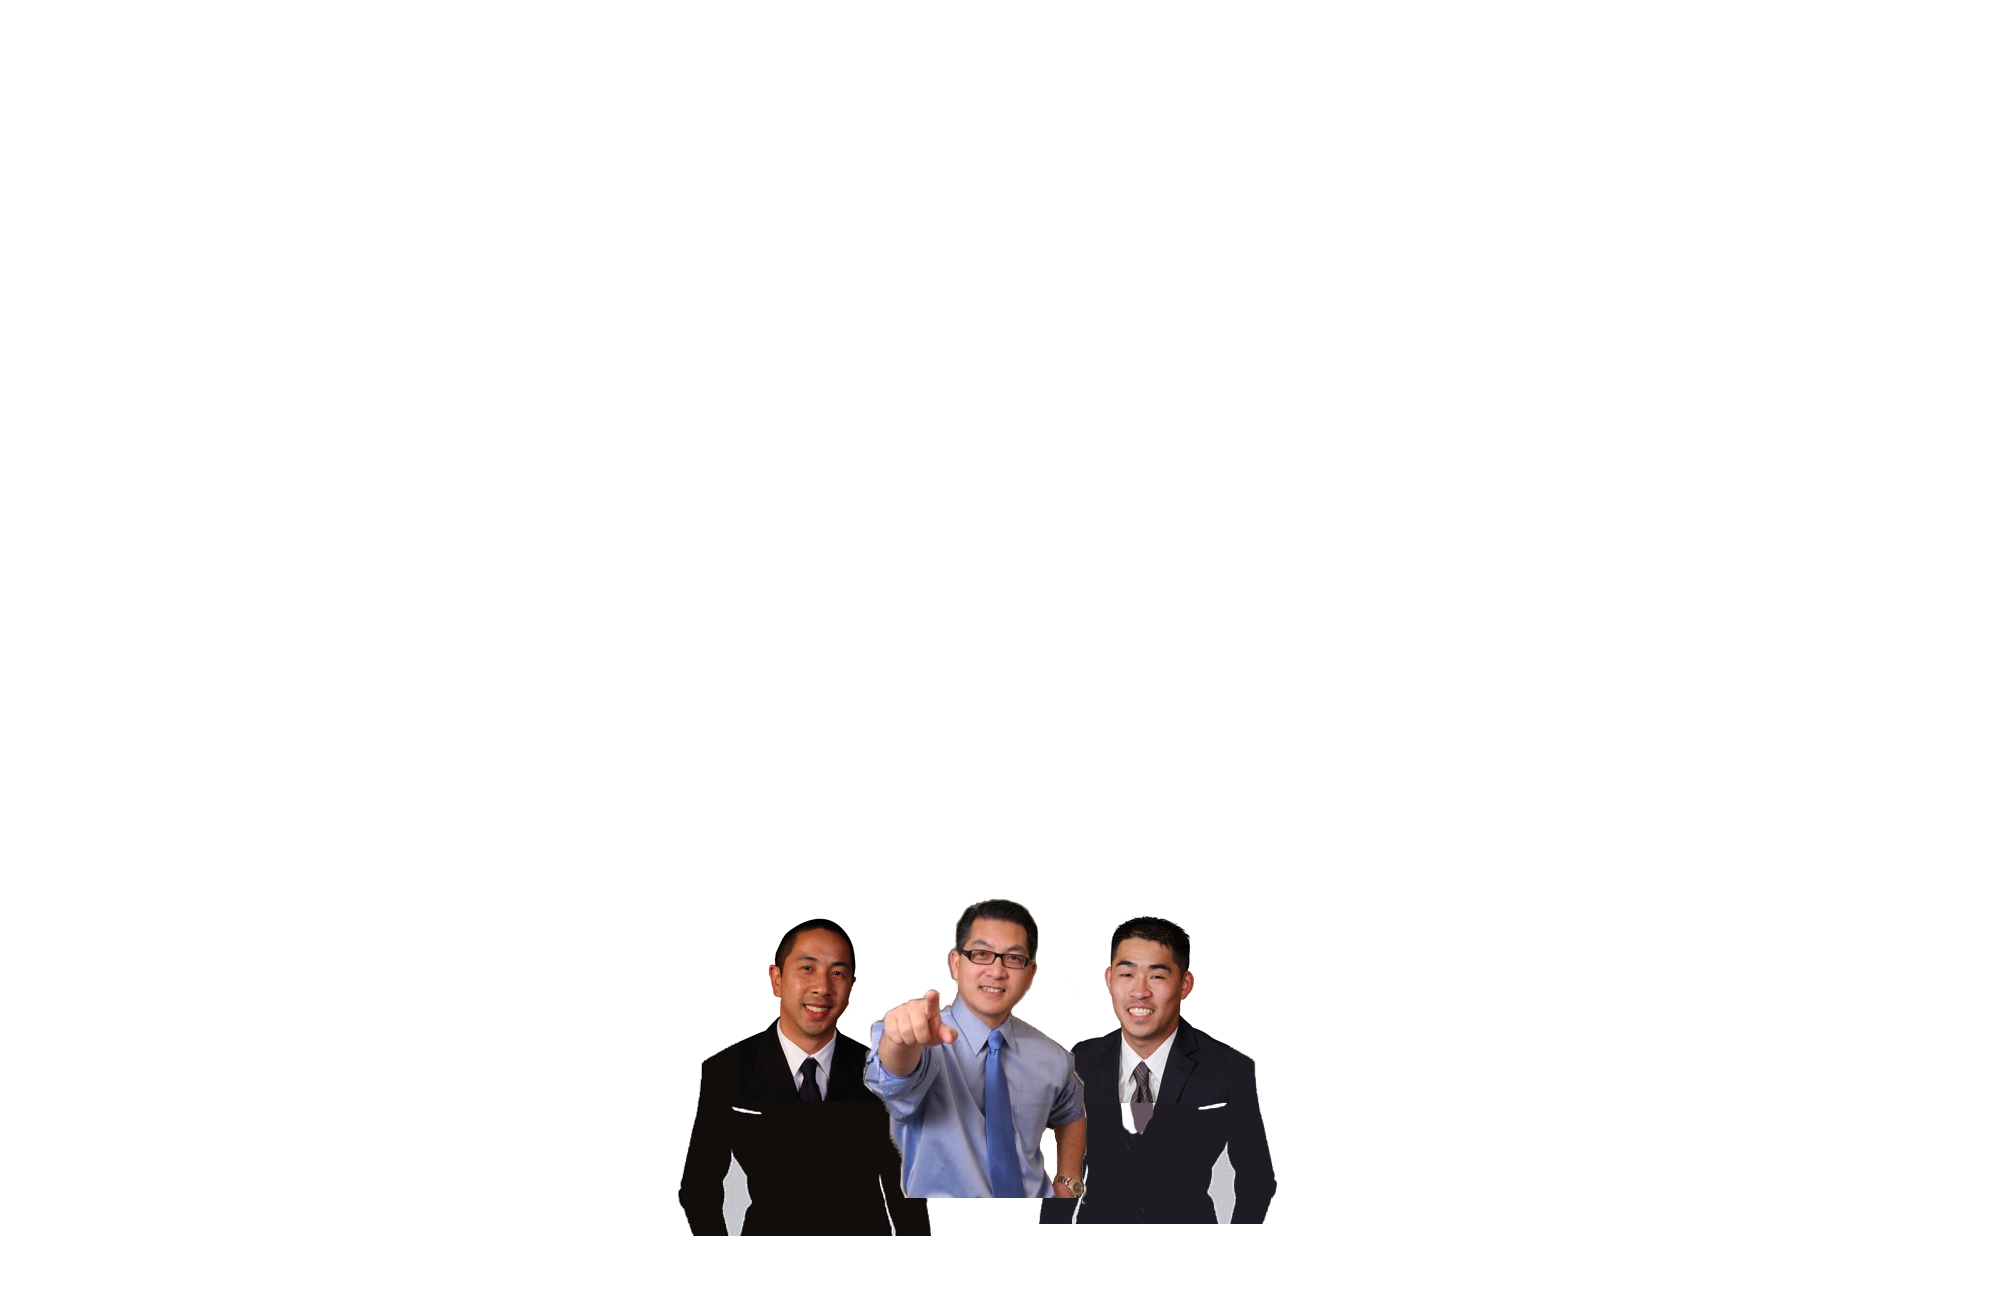
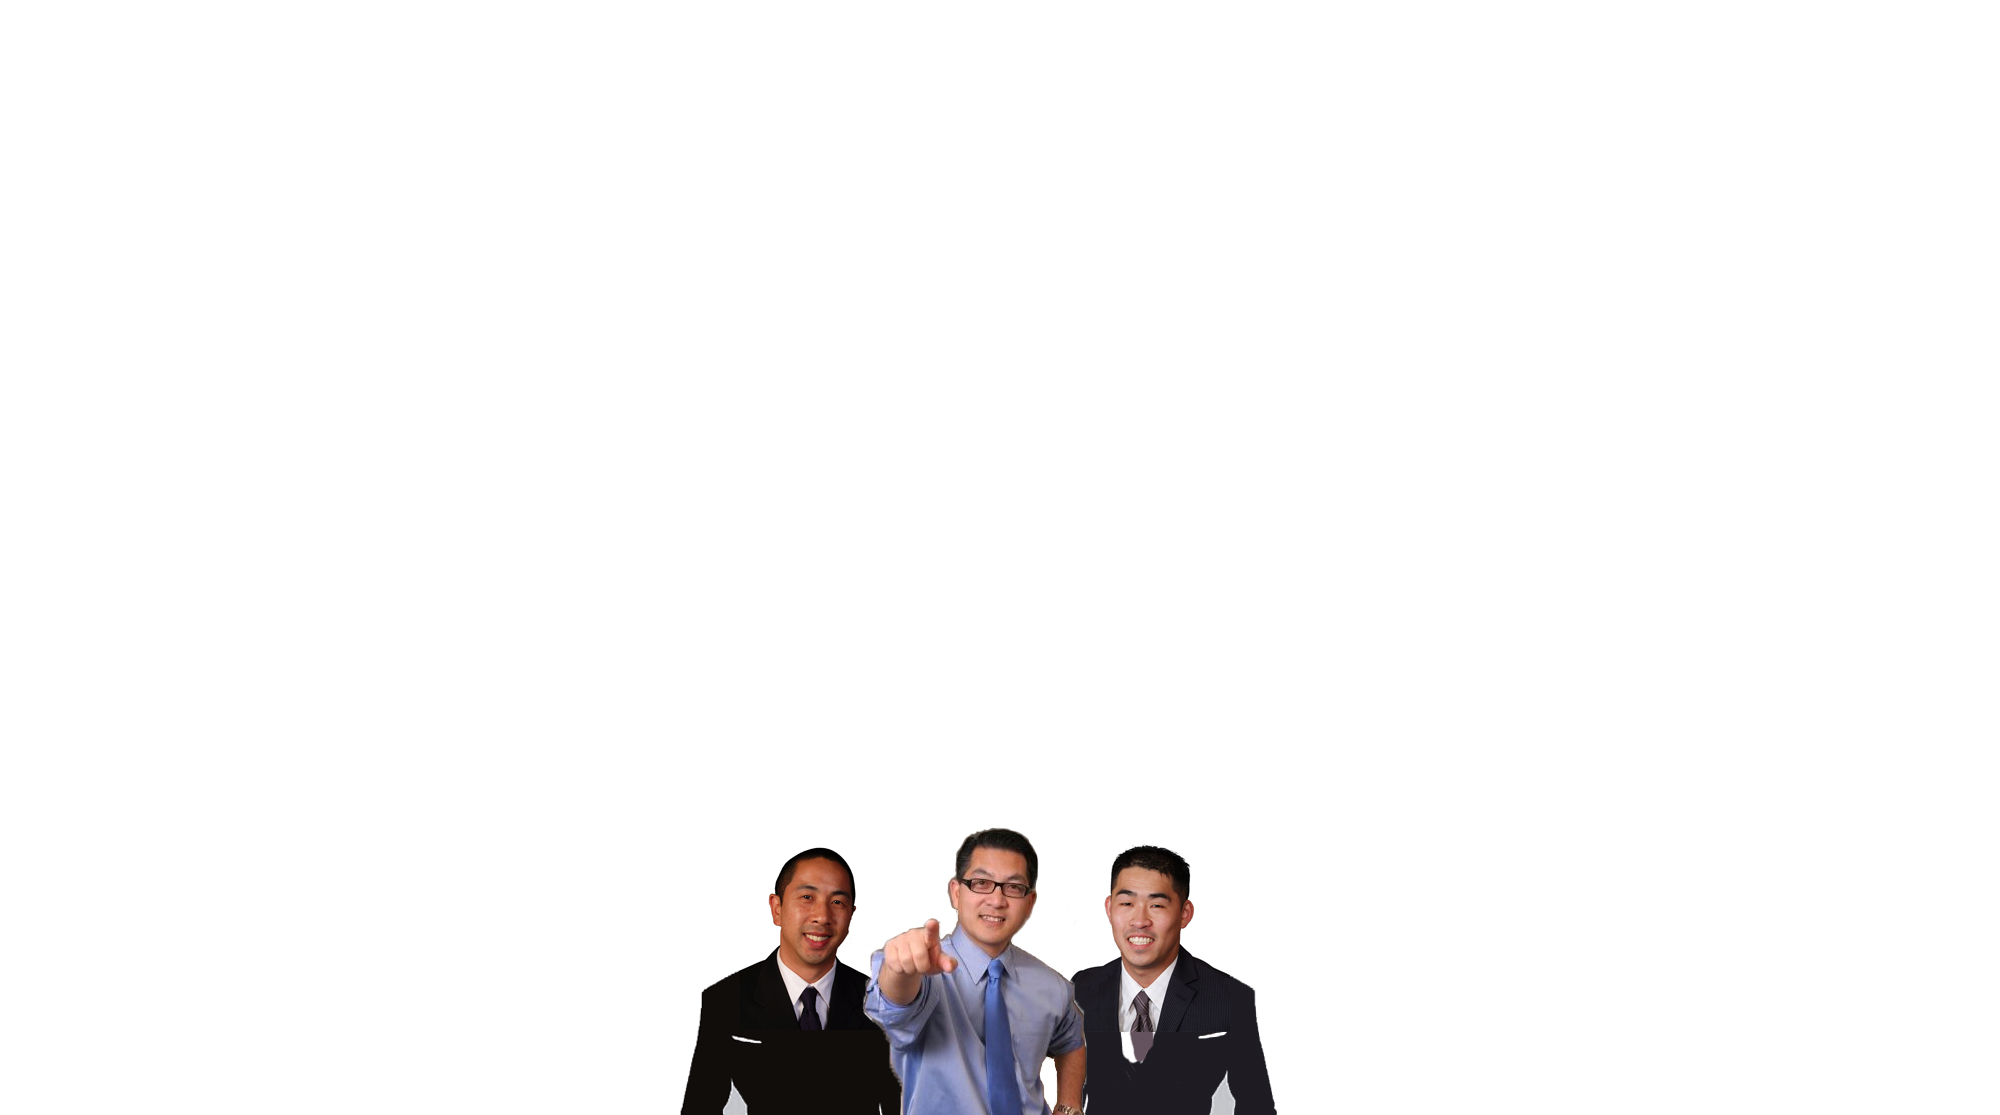
header margin-top -10em

Changed region(s): [[0.341, 0.6709, 0.651, 1.0]]

diff --git a/css/style.css b/css/style.css
@@ -18,6 +18,18 @@
 /* David                                                                         */
 /*********************************************************************************/
 
+.davidstart {
+	border-radius: 0;
+	background-color: #626A6F;
+	color: #fff;
+	width: 4.5em;
+	height: 4.5em;
+	line-height: 4.5em;
+	text-align: center;
+	font-size: 1.25em;
+	padding: 5px;
+}
+
 .eighty {
 	max-width: 80%;
 	margin: 0 auto;
@@ -1054,6 +1066,7 @@
 		/*color: #fff;*/
 		color: #F99D1C;
 		text-align: center;
+		margin-left: 3px;
 		padding: 2.5em 0 2em 0;
 		cursor: default;
 	}
@@ -1091,7 +1104,8 @@
 			position: relative;
 			z-index: 1;
 			margin: 0;
-			padding: 4em 0 0 0;
+			/*padding: 4em 0 0 0;*/
+			padding: 1.5em 0 0 0;
 		}
 	
 		#header h1

diff --git a/css/style-mobile.css b/css/style-mobile.css
@@ -209,7 +209,7 @@
 
 		#header .inner
 		{
-			padding-top: 1.5em;
+			padding-top: 0px;
 			padding-left: 1em;
 			padding-right: 1em;
 		}

diff --git a/index.php b/index.php
@@ -27,14 +27,16 @@
 						
 				<!-- Inner -->
 					<div class="inner">
-						<header>
-							<h1><a href="#" id="logo"><span class="grey">Michael James</span> International</a></h1>
-							<!-- <hr /> -->
-							<span class="byline">Enterprise level Real Estate solutions</span>
-						</header>
-						<footer>
-							<a href="#banner" class="button circled scrolly">Start</a>
-						</footer>
+						<div class="davidheader" style="margin-top: -10em;">
+							<header>
+								<h1><a href="#" id="logo"><span class="grey">Michael James</span> International</a></h1>
+								<!-- <hr /> -->
+								<span class="byline">Enterprise level Real Estate solutions</span>
+							</header>
+							<!-- <footer> -->
+								<br><a href="#banner" class="button circled scrolly">Start</a>
+							<!-- </footer> -->
+						</div>
 					</div>
 				
 				<!-- Nav -->
